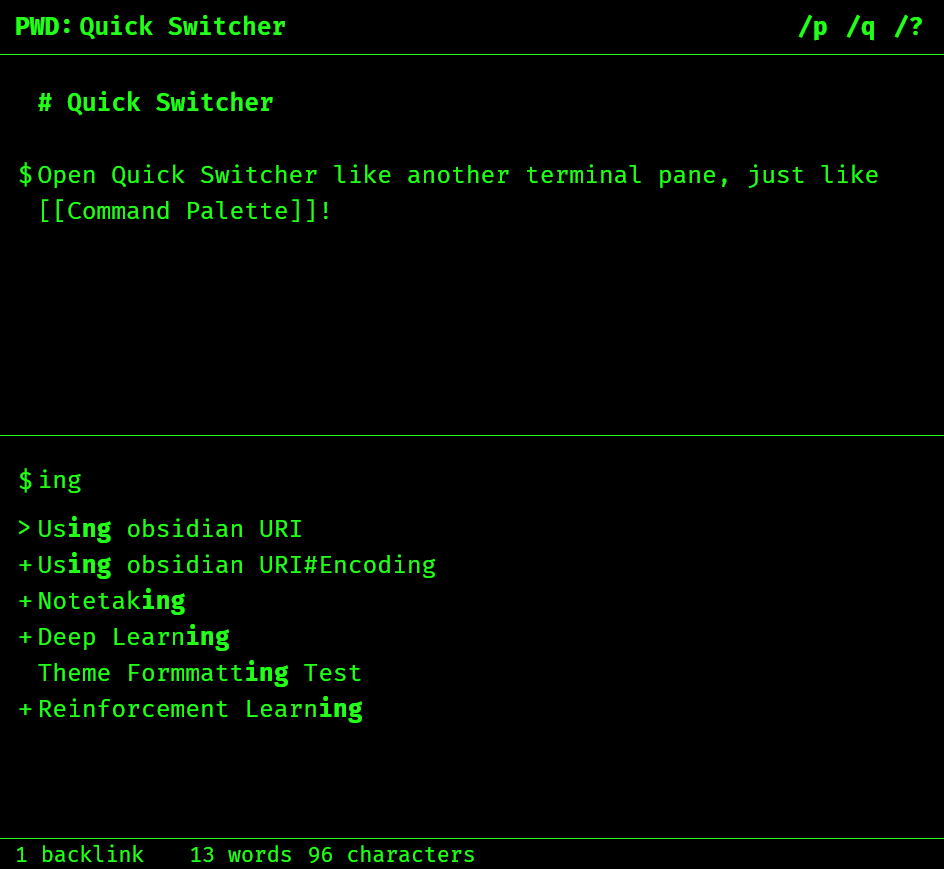
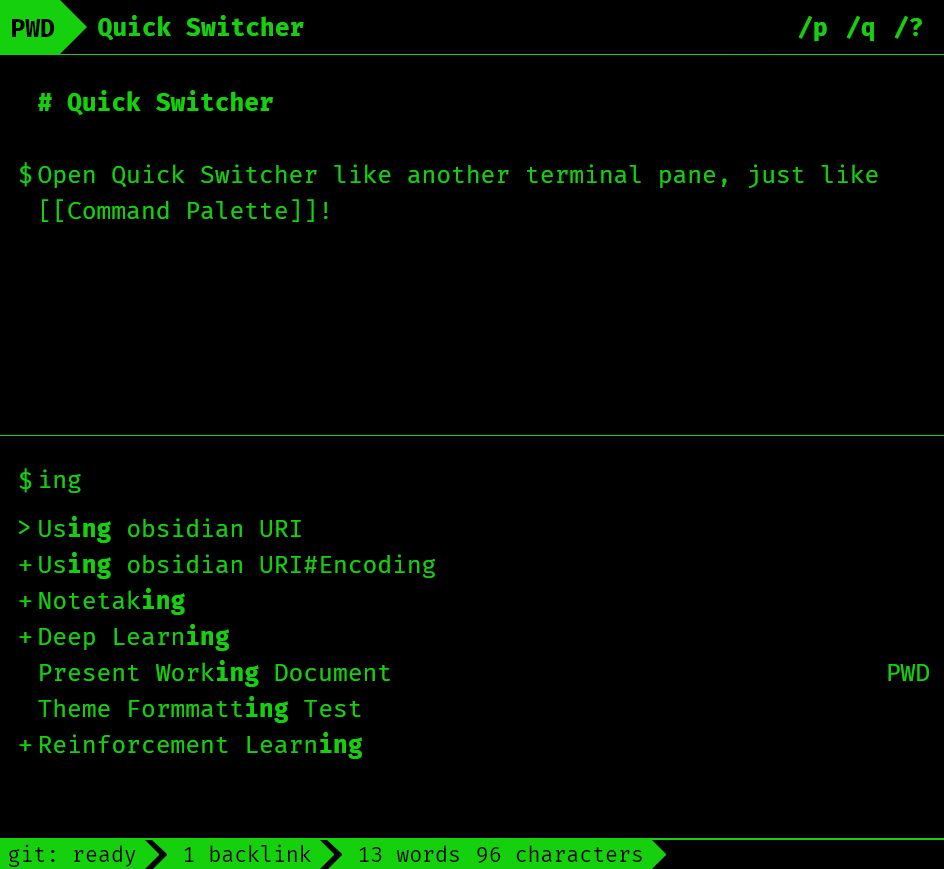
fix: Clean code and fix small bugs
Last fix: pin-command

diff --git a/obsidian.css b/obsidian.css
@@ -174,7 +174,7 @@ settings:
   --the-color-rgb: 35, 255, 24;
   --the-background-color: #000000;
   --the-font: Fira Code;
-  --the-font-size: 16px;
+  --the-font-size: 10px;
   --editor-line-height: 1.5;
   --char-width: calc(0.625 * var(--the-font-size)); /* the ratio is determined by the font-family */
 
@@ -218,10 +218,6 @@ body {
   --background-modifier-form-field: rgba(0, 0, 0, 0);
   --background-modifier-form-field-highlighted: rgba(0, 0, 0, 0);
   --background-modifier-box-shadow: rgba(0, 0, 0, 0);
-  --background-modifier-success: #197300;
-  --background-modifier-error: #3d0000;
-  --background-modifier-error-rgb: 61, 0, 0;
-  --background-modifier-error-hover: #470000;
   --background-modifier-cover: rgba(0, 0, 0, 0.8);
   --text-accent: var(--the-color);
   --text-accent-hover: var(--the-color);
@@ -229,21 +225,27 @@ body {
   --text-muted: var(--the-color);
   --text-muted-rgb: var(--the-color-rgb);
   --text-faint: var(--the-color);
-  --text-error: #ff3333;
-  --text-error-hover: #990000;
-  --text-highlight-bg: rgba(255, 255, 0, 0.4);
-  --text-highlight-bg-active: rgba(255, 128, 0, 0.4);
-  --text-selection: rgba(23, 48, 77, 0.99);
   --text-on-accent: var(--the-color);
   --interactive-normal: var(--the-background-color);
   --interactive-hover: var(--the-background-color);
   --interactive-accent: var(--the-background-color);
   --interactive-accent-rgb: var(--the-color-rgb);
   --interactive-accent-hover: var(--the-background-color);
-  --interactive-success: #197300;
+  
+  /* Untouch */
+  --text-highlight-bg: rgba(255, 255, 0, 0.4);
+  --text-highlight-bg-active: rgba(255, 128, 0, 0.4);
+  --text-selection: rgba(23, 48, 77, 0.99);
   --scrollbar-active-thumb-bg: rgb(255, 255, 255);
   --scrollbar-bg: rgba(255, 255, 255, 0.05);
   --scrollbar-thumb-bg: rgba(255, 255, 255, 0.1);
+  --interactive-success: #197300;
+  --background-modifier-success: #197300;
+  --background-modifier-error: #3d0000;
+  --background-modifier-error-rgb: 61, 0, 0;
+  --background-modifier-error-hover: #470000;
+  --text-error: #ff3333;
+  --text-error-hover: #990000;
   --highlight-mix-blend-mode: lighten;
 }
 
@@ -282,6 +284,9 @@ input[type='number'] {
   position: relative; /* for :after's relative to work! */
   color: var(--the-background-color);
   background-color: var(--the-color);
+}
+.status-bar-item.mod-clickable:hover {
+  color: var(--the-background-color);
 }
 .status-bar-item:not(:first-child) {
   margin-left: calc(5px + 0.5 * var(--status-bar-height));
@@ -345,10 +350,10 @@ body {
 ::-webkit-scrollbar {
   display:none;
 }
-/* Hide search suggestions */
-/* .suggestion-container.mod-search-suggestion {
+/* !(temporarily) Hide search suggestions */
+.suggestion-container.mod-search-suggestion {
   display: none;
-} */
+}
 /* Hide instructions */
 .prompt-instructions {
   display:none;
@@ -364,6 +369,8 @@ body {
 }
 .CodeMirror-line {
   line-height: var(--editor-line-height);
+  text-indent: unset !important; /* important added for hard-coded style */
+  padding-left: 5px !important;
 }
 .cm-s-obsidian {
   line-height: var(--editor-line-height);
@@ -375,14 +382,11 @@ body {
   border-color: var(--the-color);
 }
 
-/* Prompt */
+/* Active Line Prompt */
 .CodeMirror-activeline .CodeMirror-line:before {
   content: var(--input-prompt);
   position: absolute;
   left: -0.5em;
-  font-size: var(--the-font-size);
-  color: var(--the-color);
-  font-family: fira code;
 }
 
 /* Cursor */
@@ -411,6 +415,7 @@ body {
   color: var(--the-color);
   font-size: var(--the-font-size);
   font-style: italic;
+  font-weight: bold;
 }
 
 .cm-s-obsidian span.cm-formatting-highlight,
@@ -422,26 +427,13 @@ body {
 
 /* List */
 .cm-s-obsidian .HyperMD-list-line {
-  text-indent: 0px !important;
-  padding-left: 5px !important; /* important added for hard-coded style */
   padding-top: 0px;
   min-height: unset;
-}
-
-/* Blockquote */
-.cm-s-obsidian .HyperMD-quote {
-  text-indent: 0px !important;
-  padding-left: 5px !important;
-  padding-top: 0px
 }
 
 /* Code block */
 .cm-s-obsidian span.cm-inline-code.cm-hmd-indented-code {
   font-style: normal;
-}
-pre.CodeMirror-line {
-  text-indent: unset !important; /* important added for hard-coded style */
-  padding-left: 5px !important;
 }
 
 .cm-formatting.cm-formatting-code-block,
@@ -449,27 +441,31 @@ pre.CodeMirror-line {
   color: var(--the-color);
   font-size: var(--the-font-size);
   line-height: var(--editor-line-height);
+  font-weight: bold;
 }
 
-/* Footnote */
-.cm-s-obsidian span.cm-footref:not(.cm-formatting-link),
+/* Footnote & Links */
+.cm-s-obsidian span.cm-footref,
+.cm-s-obsidian span.cm-blockid,
+.cm-s-obsidian .HyperMD-footnote span.cm-hmd-barelink {
+  display: inline;
+  vertical-align: unset;
+  margin-top: 0;
+  font-size: var(--the-font-size);
+}
+.cm-s-obsidian span.cm-link.cm-hmd-barelink.cm-footref:not(.cm-formatting-link),
 .cm-s-obsidian span.cm-blockid,
 .cm-s-obsidian .HyperMD-footnote span.cm-hmd-barelink:not(.cm-formatting-link) {
-  font-size: var(--the-font-size);
   font-style: italic;
-  vertical-align: unset;
-  display: inline;
-  margin-top: -0;
   text-decoration: underline;
-}
-.cm-s-obsidian span.cm-link.cm-hmd-barelink:not(.cm-formatting-link) {
-  font-style: italic;
 }
 .cm-s-obsidian .HyperMD-footnote span.cm-hmd-footnote:not(.cm-formatting-link) {
   text-decoration: underline;
 }
+/* .cm-s-obsidian span.cm-link.cm-hmd-barelink:not(.cm-formatting-link) {
+  font-style: normal;
+} */
 .cm-s-obsidian .HyperMD-footnote {
-  padding-left: 5px;
   font-size: var(--the-font-size);
 }
 
@@ -488,12 +484,14 @@ pre.CodeMirror-line {
 /* View header */
 .view-header {
   flex-wrap: nowrap;
-  align-items: baseline;
+  /* align-items: center; */
   border-width: 0;
 }
 .view-header-title {
   font-size: var(--the-font-size);
-  padding-top: 3px;
+  height: var(--header-height);
+  display: flex;
+  align-items: center;
 }
 .workspace-split.mod-root > .workspace-leaf:last-of-type .workspace-leaf-content,
 .workspace-split.mod-root > .workspace-leaf:first-of-type .workspace-leaf-content {
@@ -508,9 +506,9 @@ pre.CodeMirror-line {
   padding-right: 0;
   width: calc(4 * var(--char-width));
   min-width: calc(4 * var(--char-width)); /* required for header flex display */
-  height: 37px;
+  height: calc(var(--header-height) + 1px);
   top: -1px;
-  padding-top: 0.25rem !important;
+  /* padding-top: 0.25rem !important; */
   border: 1px solid var(--the-color);
   margin-right: 20px;
   border-right: 10px solid transparent;
@@ -518,13 +516,13 @@ pre.CodeMirror-line {
 .mod-active .view-header-icon:after {
   content: "";
   position: absolute;
-  right: -28px; /* 1/2 * header-height + .view-header-icon(padding-right) */
-  top: -1px;
-  width: 0; 
-  height: 0; 
-  border-top: 18px solid transparent;
-  border-bottom: 18px solid transparent;
-  border-left: 18px solid var(--the-color); 
+  right: calc(-0.5 * var(--header-height) - 10px); /* 1/2 * header-height + .view-header-icon(border-right) */
+  top: 0px;
+  width: 0;
+  height: 0;
+  border-top: calc(0.5 * var(--header-height)) solid transparent;
+  border-bottom: calc(0.5 * var(--header-height)) solid transparent;
+  border-left: calc(0.5 * var(--header-height)) solid var(--the-color); 
 }
 .mod-active .view-header-icon:before {
   content: var(--pwd);
@@ -532,8 +530,11 @@ pre.CodeMirror-line {
   font-weight: bold;
   font-size: var(--the-font-size);
   position: absolute;
-  bottom: 4px;
+  height: var(--header-height);
+  top: 0;
   left: 6px;
+  display: flex;
+  align-items: center;
   /* margin-right: -10px; */
   /* border: 1px solid var(--the-color); */
 }
@@ -543,7 +544,7 @@ pre.CodeMirror-line {
   font-size: 0;
   padding-right: 0;
   width: 3em;
-  padding-top: 0.25rem !important;
+  /* padding-top: 0.25rem !important; */
 }
 
 .view-action[aria-label="Close"],
@@ -551,7 +552,7 @@ pre.CodeMirror-line {
 .view-action[aria-label*="Preview"],
 .view-action[aria-label*="Edit"] {
   color: transparent;
-  width: 1rem;
+  width: calc(0.5 * var(--the-font-size));
 }
 .view-action:before {
   color: var(--the-color);
@@ -581,6 +582,7 @@ a[aria-label="More options"]:before {
 
 /* Prompt */
 .prompt {
+  font-size: var(--the-font-size);
   display: unset;
   /* position: absolute; */
   bottom: var(--status-bar-height);
@@ -591,38 +593,40 @@ a[aria-label="More options"]:before {
   border-style: solid;
   border-width: 1px 0 1px 0;
   border-radius: unset;
-  padding-top: 9px;
-}
-.prompt-results {
-  position: absolute;
-  top: 50px;
-  bottom: 0;
-  right: 10px;
-  left: 10px;
-  /* max-height: 90%; */
-  padding-top: 0;
+  /* padding-top: 9px; */
+  padding: 0px 20px;
 }
 .modal-bg {
   background-color: unset;
 }
 input {
-  font-family: fira code !important;
+  font-family: var(--the-font) !important;
 }
 input.prompt-input {
-  padding: 0 0 0 14px;
-  border-color: transparent;
+  font-size: var(--the-font-size);
+  padding: 0 0 0 5px; /* same as CodeMirror line */
+  border-width: 0;
 }
 .prompt:before {
   content: var(--input-prompt);
   position: absolute;
-  top: 18px;
-  left: 12px;
+  top: calc(20px - 0.5 * var(--editor-line-height) * 1em);
+  left: calc(20px - 0.5em);
+}
+.prompt-results {
+  position: absolute;
+  top: calc(20px + 1em);
+  bottom: 0;
+  right: 20px;
+  left: 10px;
+  /* max-height: 90%; */
+  padding-top: 0;
 }
 .suggestion-item {
+  font-size: var(--the-font-size);
   padding: 0 0 0 15px;
-  border-style: solid;
-  border-color: transparent;
   border-width: 0;
+  height: calc(var(--editor-line-height) * 1em);
 }
 /* .is-selected {
   border-style: solid;
@@ -632,15 +636,20 @@ input.prompt-input {
 .is-selected:not(.community-theme):before {
   content: var(--selected);
   position: absolute;
-  left: 1px;
+  left: calc(-0.5em + 10px); /* 10px = .suggestion-item(border-left) - .CodeMirror-line(border-left) */
   bottom: 1px;
+}
+.suggestion-item:not(.is-selected) > .suggestion-content + .suggestion-flair {
+  height: 1.5em;
+  position: absolute;
+  top: 0;
 }
 .suggestion-item:not(.is-selected) > .suggestion-content + .suggestion-flair:before {
   content: var(--pin-command);
   color: var(--the-color);
-  position: relative;
-  right: 8px;
-  bottom: 6px;
+  position: absolute;
+  left: -0.5em;
+  bottom: 0.01em;
 }
 
 /* Quick Switcher */
@@ -675,6 +684,7 @@ input.prompt-input {
   position: absolute;
   bottom: 0;
   right: 0;
+  font-size: var(--the-font-size);
 }
 /* Position adjustment when window is above */
 .suggestion-container:before {
